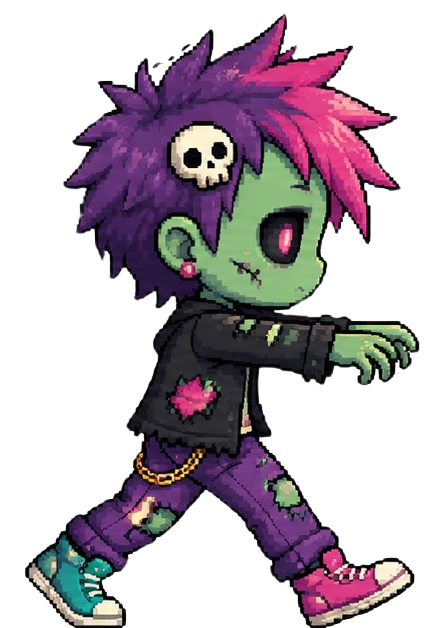
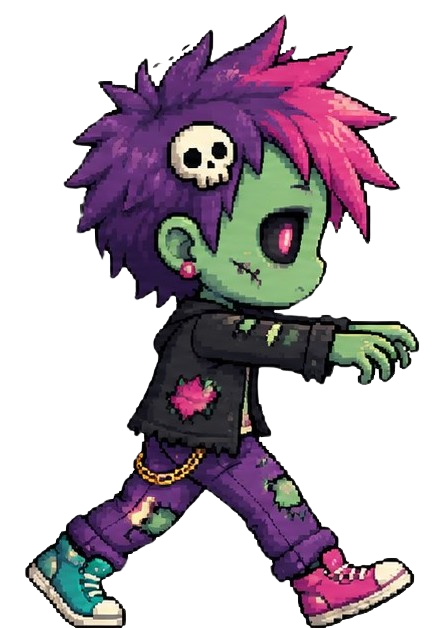
quest: custom UI for the per-step Skip button
Skip button now has its own pixel-art treatment — a dashed, muted
secondary-action style instead of a plain ghost button, so it reads
as a deliberate escape hatch without competing with Submit/Capture.
Also re-pushes touched-up loading frames + twist icon.

diff --git a/index.html b/index.html
@@ -5899,14 +5899,23 @@
   }
   .photo-judge.pass { box-shadow: 3px 3px 0 var(--neon-3); border-left: 6px solid var(--neon-3); }
   .photo-judge.fail { box-shadow: 3px 3px 0 var(--danger); border-left: 6px solid var(--danger); }
-  /* Per-step escape hatch — low-emphasis so it's findable but doesn't
-     invite casual skipping. */
+  /* Per-step escape hatch — its own pixel-art treatment: a dashed,
+     muted "secondary action" look so it's findable but never competes
+     with the solid Submit / Capture buttons or invites casual skips. */
   .step-skip-btn {
     display: block; width: 100%;
-    margin-top: 8px;
-    font-size: 11px; opacity: 0.6;
+    margin-top: 10px;
+    padding: 9px 10px;
+    background: rgba(0, 0, 0, 0.22);
+    border: 2px dashed var(--ink-faint);
+    border-radius: 0;
+    color: var(--ink-dim);
+    font-family: var(--px); font-size: 9px; letter-spacing: 1.5px;
+    text-align: center; cursor: pointer;
+    transition: color 0.15s, border-color 0.15s, background 0.15s;
   }
-  .step-skip-btn:active { opacity: 0.9; }
+  .step-skip-btn:hover { color: var(--ink); border-color: var(--ink-dim); }
+  .step-skip-btn:active { transform: translate(0, 1px); background: rgba(0, 0, 0, 0.4); }
   .photo-judge .verdict { font-family: var(--px); font-size: 10px; margin-bottom: 6px; }
   .photo-judge.pass .verdict { color: var(--neon-3); }
   .photo-judge.fail .verdict { color: var(--danger); }
@@ -9420,7 +9429,7 @@ const FRAME_BY_ID = Object.fromEntries(FRAMES.map(f => [f.id, f]));
 // user can verify their browser is running the latest deploy by
 // checking Settings → bottom of the modal. Format: YYYY.MM.DD.N
 // where N increments per change on the same day.
-const BUILD_VERSION = '2026.05.21.278';
+const BUILD_VERSION = '2026.05.21.279';
 
 // ──────────────────────────────────────────────────────────────────
 // SERVICE WORKER REGISTRATION
@@ -16707,7 +16716,7 @@ function renderStep(s, i) {
         ${active
           ? renderProofUI(s, i) + ((r.judgments[i] && r.judgments[i].pass)
               ? ''
-              : `<button class="btn ghost sm step-skip-btn" data-skip-step="${i}">Stuck? Skip this step</button>`)
+              : `<button class="step-skip-btn" data-skip-step="${i}">▸▸ STUCK? SKIP THIS STEP</button>`)
           : ((r.failedSteps || []).includes(i)
               ? `<div style="color: var(--danger); font-family: var(--px); font-size: 9px; margin-top:8px; letter-spacing: 1px;">✗ TIME EXPIRED · 0 damage dealt · reward reduced</div>`
               : renderCompletedProof(s, i))}
